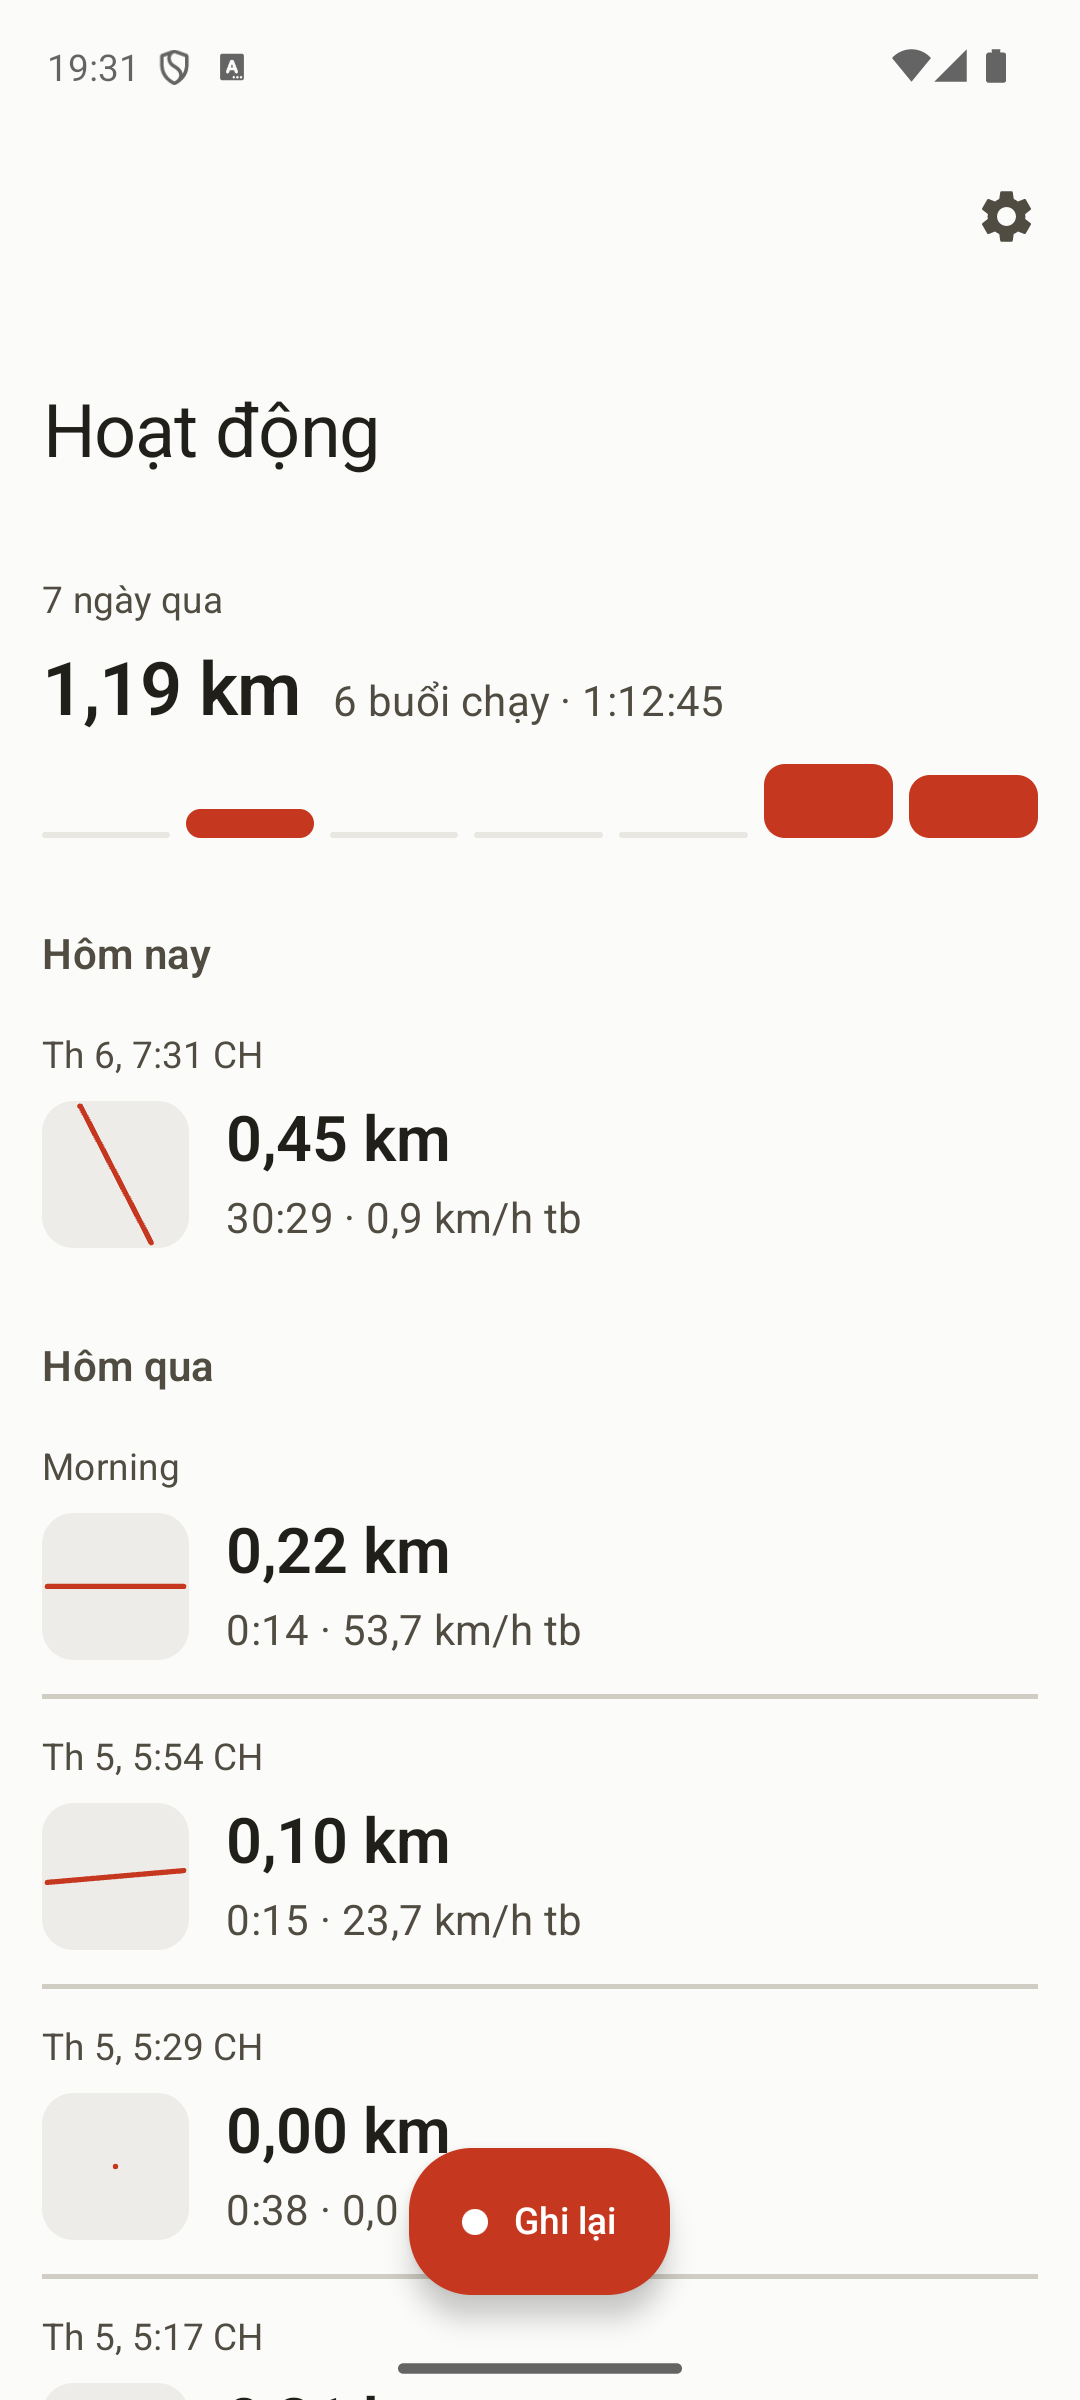
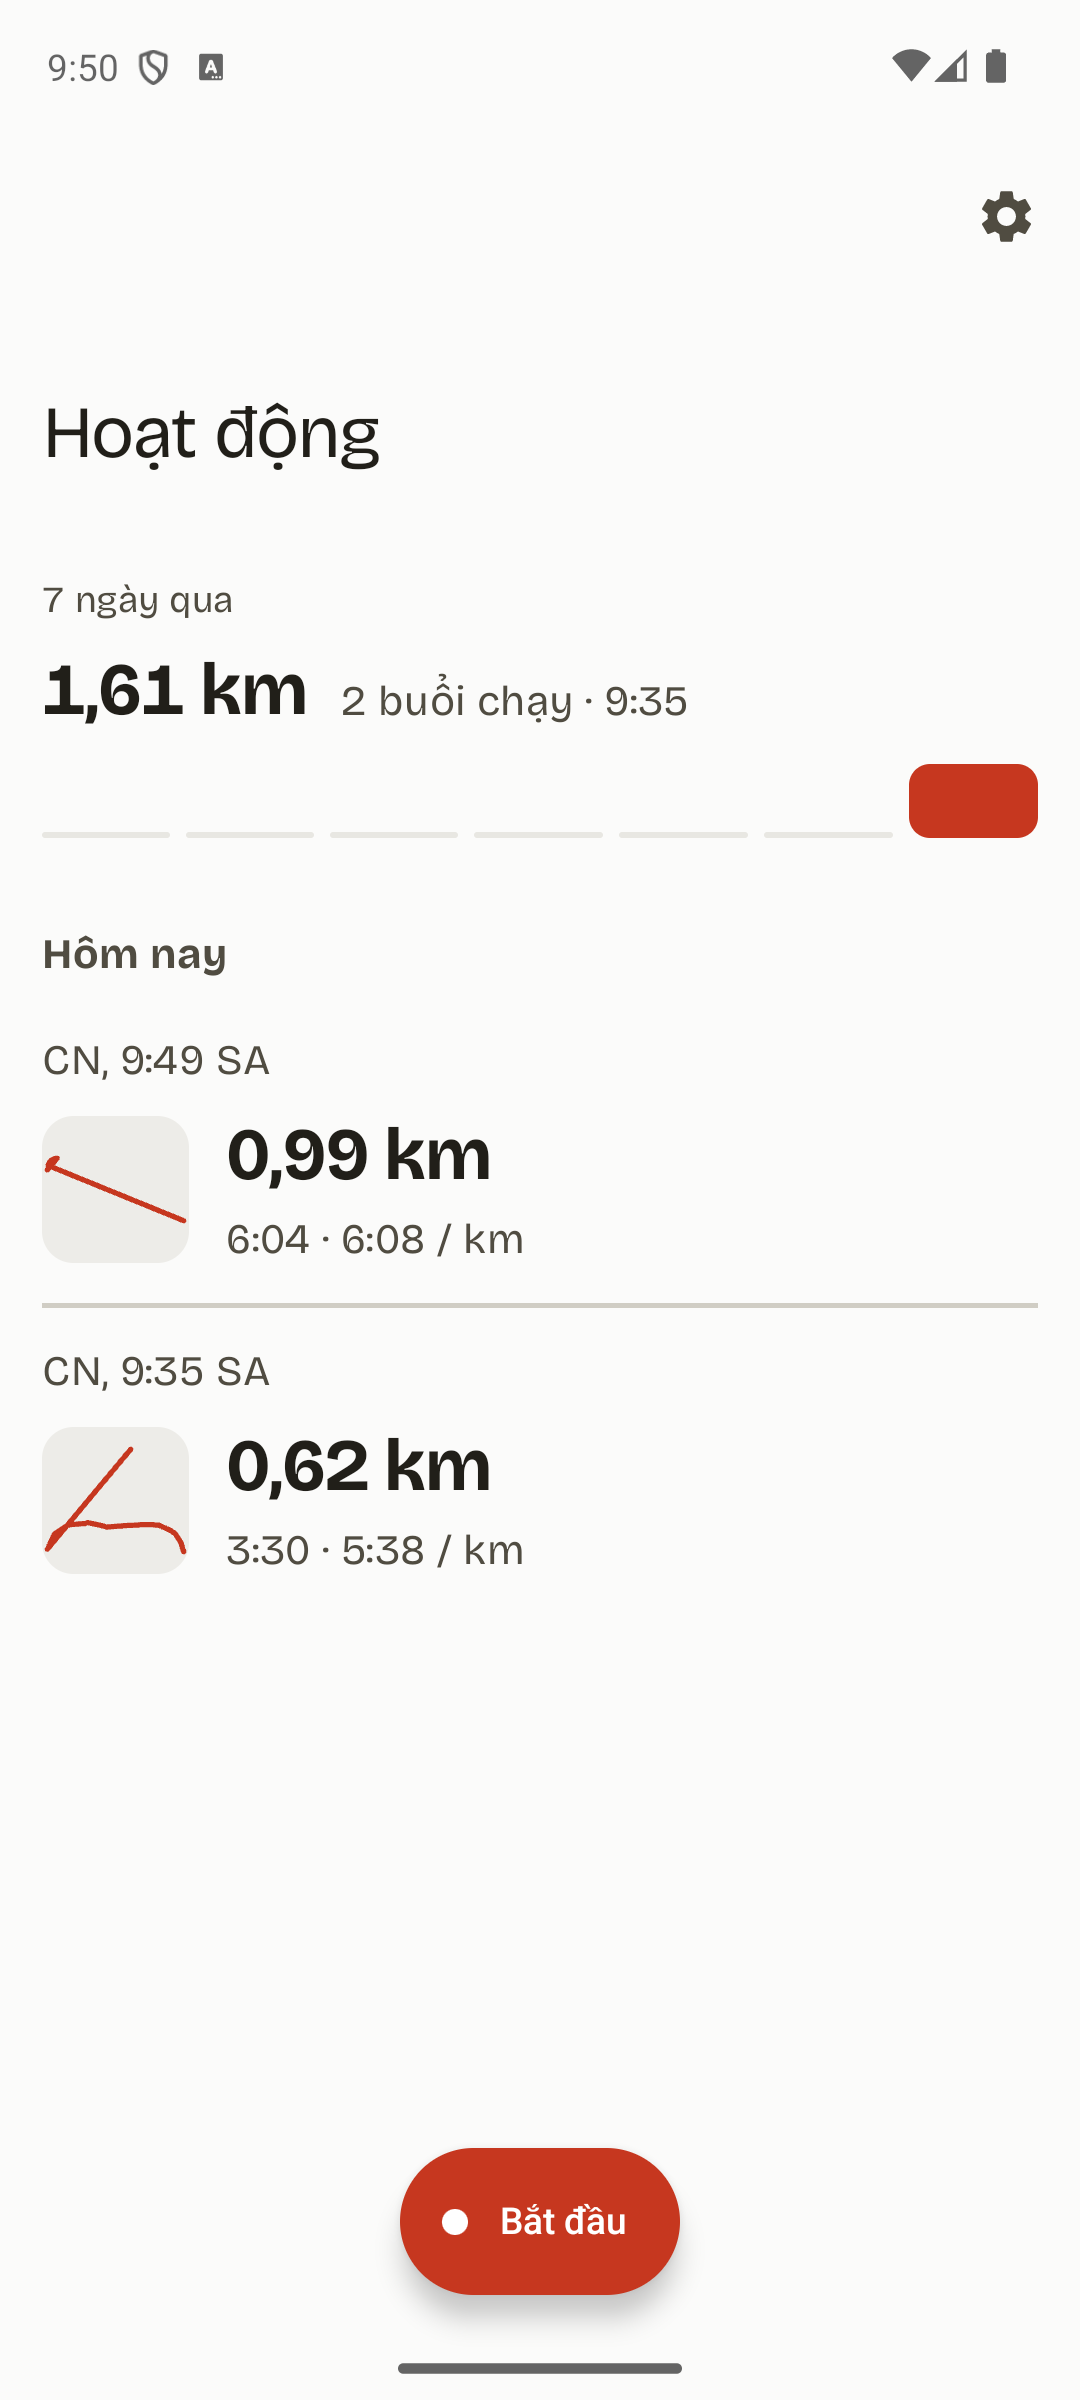
Recapture the screenshots and correct the README's stale claims
Every screenshot showed the pre-revamp UI: old type scale, old Runs row,
no hero on Record, and the old typeface. All nine are retaken against the
current build.

The data behind them is real rather than staged. The emulator's stored
runs were 0.00 km junk, so app data was cleared and two runs were recorded
against a scripted GPS track, then kept only when the numbers came out
internally consistent. Two attempts were discarded for producing paces no
human could run.

Two emulator artefacts are now stated in the README rather than left to
look like defects: the live pace reads "--:--" because injected fixes
carry no speed to smooth, and the paces are quick because a scripted track
covers ground faster than the clock.

The offline screenshot is dropped rather than replaced with a stale one.
It could not be reproduced: this emulator has cached the Maps renderer, so
neither cutting the network nor building with an invalid key would stop
the map drawing. Its slot goes to the paused state, and the README says
plainly why the offline shot is missing, since that state is a real one
the app handles.

Three claims had gone stale and are corrected:

- "A run under 100 m offers to delete itself" is no longer true; that
  prompt was removed, and the text now says why.
- "Tap record" predates the button being renamed to Start.
- The test count moves 426 to 454.

The typeface is added to the tech stack, since it is now a bundled asset
[…]

diff --git a/README.md b/README.md
@@ -20,7 +20,7 @@
   <a href="LICENSE"><img alt="License: MIT" src="https://img.shields.io/badge/License-MIT-yellow.svg"></a>
 </p>
 
-Tap record and go. The route draws as you run, the numbers stay readable at a glance, and when you
+Tap start and go. The route draws as you run, the numbers stay readable at a glance, and when you
 stop you get a summary of what you just did instead of being dropped back into a list. Past runs
 keep their route, their splits per kilometre, and a name you can give them.
 
@@ -37,7 +37,12 @@ finished run, and as the thumbnail on every row.
 ## Screenshots
 
 Captured on a Pixel 6a emulator with the app in Vietnamese, its primary language. Distances read
-`0,45 km` with a comma because the formatters follow the device locale rather than a pinned one.
+`0,99 km` with a comma because the formatters follow the device locale rather than a pinned one.
+
+Two things are emulator artefacts rather than app behaviour. The live pace reads `--:--` because
+injected GPS fixes carry no speed for the app to smooth, and on a phone it shows a number. And the
+paces are quicker than a person would run, because a scripted track covers ground faster than the
+clock.
 
 <table>
   <tr>
@@ -58,19 +63,23 @@ the app when you are not running. Stopping goes forward to the summary, not back
 <table>
   <tr>
     <th>Run detail</th>
-    <th>No signal</th>
+    <th>Paused</th>
     <th>Settings</th>
   </tr>
   <tr>
     <td><img src="docs/screenshots/detail_light.png" width="230"></td>
-    <td><img src="docs/screenshots/record_offline_light.png" width="230"></td>
+    <td><img src="docs/screenshots/record_paused_light.png" width="230"></td>
     <td><img src="docs/screenshots/settings_light.png" width="230"></td>
   </tr>
 </table>
 
-The middle one is the app with no map available. The route, the scale bar and every metric are
-still there, because none of them need the network. The map is the only thing missing, and it says
-so rather than showing an empty screen.
+Paused is a band across the sheet rather than a tinted word, because it is the state most easily
+missed and missing it means believing you are recording when you are not.
+
+There is no screenshot of the app with the map unavailable, which is a real and common state: the
+Maps renderer is a Play Services module fetched at runtime, and without it the route is drawn on a
+canvas with a scale bar instead. It could not be captured here because this emulator has already
+cached the renderer, and a stale image from an older build would have been worse than none.
 
 Dark mode is a first-class theme rather than an inverted afterthought, and you can pin it in
 Settings regardless of what the system is doing.
@@ -102,8 +111,8 @@ Settings regardless of what the system is doing.
   ships as a Play Services module fetched at runtime, so on a phone that has never downloaded it
   there would otherwise be nothing on screen at all.
 - **A moment after the run.** Stopping goes to a summary with the route, the distance, the time and
-  the pace. A run under 100 m offers to delete itself, which is what a tap-record-then-tap-stop
-  mistake actually produces.
+  the pace, with Save and Delete side by side. It does not second-guess a short run: Delete is
+  already on the screen, so telling you the run was too short only added tone.
 - **Runs you can look back at.** Each one opens to its full route, four metrics, and per-kilometre
   splits with a bar for relative pace. The fastest complete kilometre is marked; a partial closing
   split never counts as the best, because extrapolating 200 m to a full kilometre reports a pace you
@@ -131,13 +140,14 @@ Settings regardless of what the system is doing.
 | --- | --- |
 | Language | Kotlin 2.4, Coroutines and Flow throughout |
 | UI | Jetpack Compose, Material 3, with the recording screen still on Views |
+| Type | Bricolage Grotesque, bundled under the SIL OFL, with tabular figures forced on every number |
 | Navigation | Navigation Component with Safe Args |
 | DI | Hilt |
 | Persistence | Room, schema exported and every migration tested |
 | Preferences | DataStore |
 | Location | Fused Location Provider in a foreground service |
 | Maps | Google Maps SDK, with a Canvas fallback that needs no map at all |
-| Testing | JUnit, Robolectric, Compose UI testing, MockK, Turbine, 426 unit tests plus instrumented tests |
+| Testing | JUnit, Robolectric, Compose UI testing, MockK, Turbine, 454 unit tests plus instrumented tests |
 | Build | AGP 9.3, minSdk 29, targetSdk 37, R8 on for release |
 
 ## Architecture
@@ -207,7 +217,7 @@ shows the canvas route instead of a map.
 
 ## Tests
 
-426 unit tests across the three modules, plus instrumented tests covering the recording and
+454 unit tests across the three modules, plus instrumented tests covering the recording and
 recovery flows against real Room persistence. Everything runs on every pull request through GitHub
 Actions.
 
